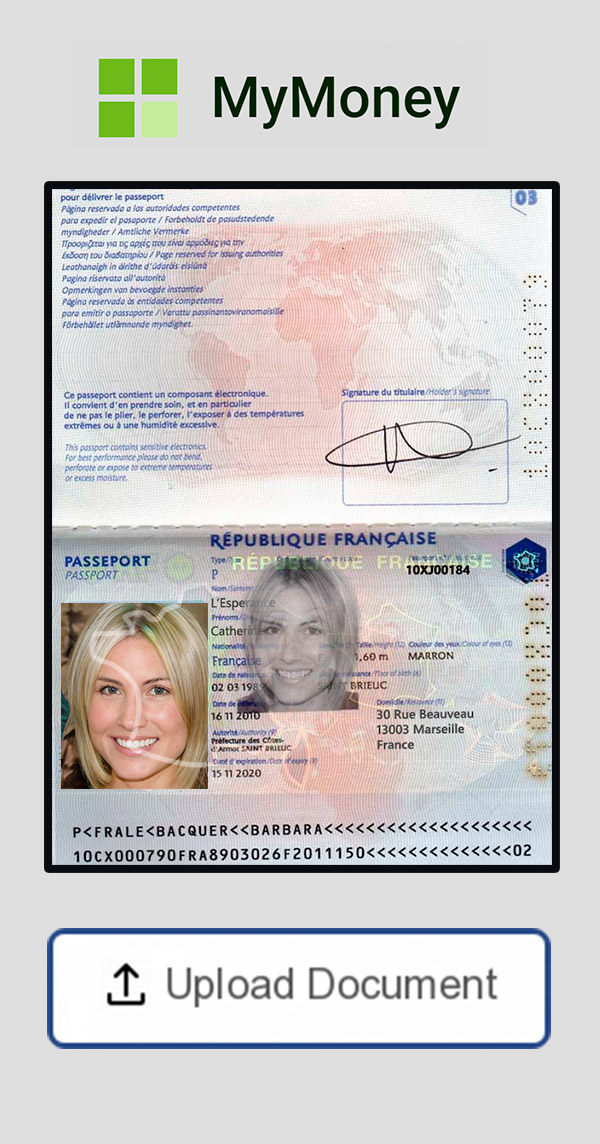
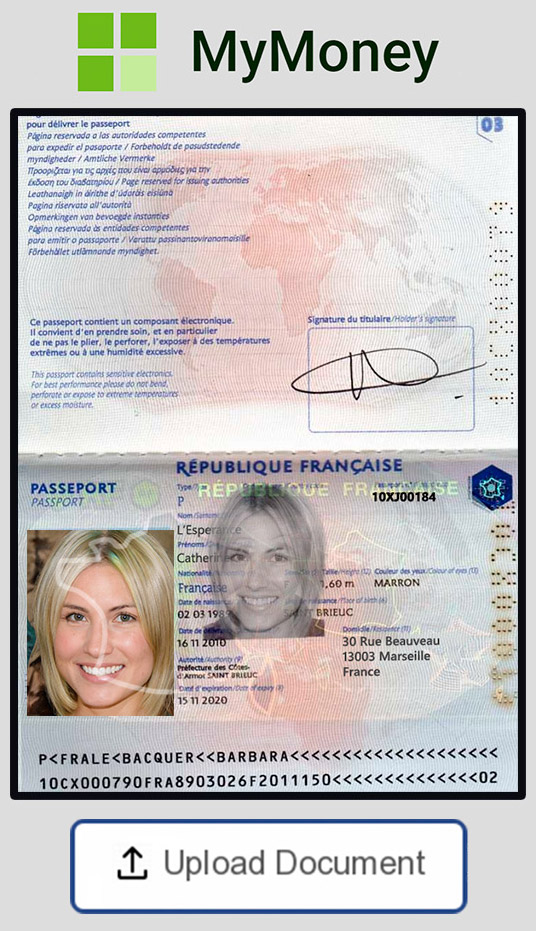
Fix image stretching on mobile and other screens

diff --git a/assets/styles/style.css b/assets/styles/style.css
@@ -242,24 +242,6 @@ h3 {
   animation-fill-mode: forwards;
   /* translations-transform: uppercase; */ }
 
-#time_at_address_checked {
-  animation: 2600ms fadeIn;
-  animation-fill-mode: forwards;
-  opacity: 0;
-  margin-left: -16px; }
-
-@keyframes fadeIn {
-  0% {
-    opacity: 0;
-    transform: scale(2.5); }
-  89% {
-    opacity: 0; }
-  90% {
-    opacity: 0.8;
-    transform: scale(3); }
-  100% {
-    opacity: 1;
-    transform: scale(1); } }
 @keyframes appear {
   from {
     color: transparent; }
@@ -1225,16 +1207,46 @@ div.reviewPic:nth-child(4) {
   margin-bottom: 15px;
   border-bottom: 1px solid #ccc; }
 
-.gdc-DISABLE.mitek-flow.front img {
-  max-height: none;
-  max-width: 100vw;
-  min-width: 1440px;
+*.mitek-flow {
+  background: transparent;
+  width: 100%;
   height: auto;
-  width: 100vw;
-  margin-left: 50%;
-  transform: translateX(-50%); }
+  text-align: center; }
+  *.mitek-flow img {
+    width: 95%;
+    max-height: none;
+    height: auto; }
 
 .page-step-1 {
   background: #ddd; }
+
+#time_at_address {
+  animation: 2600ms fadeOut;
+  animation-fill-mode: forwards; }
+
+@keyframes fadeOut {
+  0% {
+    opacity: 1; }
+  90% {
+    opacity: 1; }
+  100% {
+    opacity: 0; } }
+#time_at_address_checked {
+  animation: 2600ms fadeIn;
+  animation-fill-mode: forwards;
+  margin-left: -16px; }
+
+@keyframes fadeIn {
+  0% {
+    opacity: 0;
+    transform: scale(2.5); }
+  89% {
+    opacity: 0; }
+  90% {
+    opacity: 0.8;
+    transform: scale(3); }
+  100% {
+    opacity: 1;
+    transform: scale(1); } }
 
 /*# sourceMappingURL=style.css.map */

diff --git a/assets/styles/_gdc.scss b/assets/styles/_gdc.scss
@@ -1,16 +1,58 @@
-.gdc-DISABLE {
-	&.mitek-flow.front {
+* {
+	&.mitek-flow {
+		background: transparent;
+		width: 100%;
+		height: auto;
+		text-align: center;
 		img {
+			width: 95%;
 			max-height: none;
-			max-width: 100vw;
-			min-width: 1440px;
 			height: auto;
-			width: 100vw;
-			margin-left: 50%;
-			transform: translateX(-50%);
 		}
 	}
 }
+
 .page-step-1 {
 	background: #ddd;
+}
+
+#time_at_address {
+	animation: 2600ms fadeOut;
+	animation-fill-mode: forwards;
+}
+
+@keyframes fadeOut {
+	0% {
+		opacity: 1
+	}
+	90% {
+		opacity: 1;
+	}
+	100% {
+		opacity: 0;
+	}
+}
+
+#time_at_address_checked {
+	animation: 2600ms fadeIn;
+	animation-fill-mode: forwards;
+	margin-left: -16px
+}
+
+@keyframes fadeIn {
+	0% {
+		opacity: 0;
+		transform: scale(2.5);
+	}
+	89% {
+		opacity: 0;
+	}
+	90% {
+		opacity: 0.8;
+		transform: scale(3);
+	}
+	100% {
+		opacity: 1;
+		transform: scale(1);
+	}
 }

diff --git a/assets/styles/_scenarios.scss b/assets/styles/_scenarios.scss
@@ -213,32 +213,6 @@ h3 {
 	/* translations-transform: uppercase; */
 }
 
-#time_at_address_checked {
-	animation: 2600ms fadeIn;
-
-	animation-fill-mode: forwards;
-	opacity: 0;
-	margin-left: -16px
-
-}
-
-@keyframes fadeIn {
-	0% {
-		opacity: 0;
-		transform: scale(2.5);
-	}
-	89% {
-		opacity: 0;
-	}
-	90% {
-		opacity: 0.8;
-		transform: scale(3);
-	}
-	100% {
-		opacity: 1;
-		transform: scale(1);
-	}
-}
 
 @keyframes appear {
 	from {
